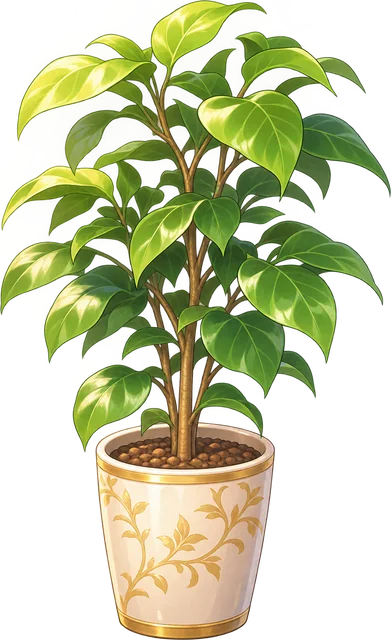
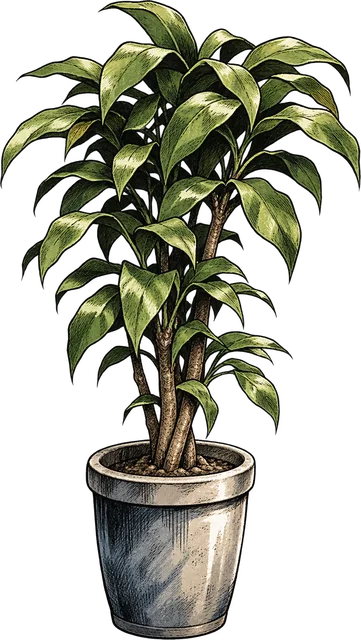
部屋4枚・観葉植物を劇画風にし、台を部品の絵で組み立てる (#25)
* 部屋4枚・観葉植物を劇画風にし、台を部品の絵で組み立てる

- 1K・分譲マンション・一戸建て・タワマンの背景と観葉植物を差し替え
- 台の地・飾り板・LED の柱・レバー・受け皿・ストップボタン・札をユーザーが作った絵に
- 絵の場所は起動時に CSS の変数へ入れる

Claude-Session: https://claude.ai/code/session_016fk9NuHm5XbXuuYNEzQTzr

* 台の部品のレビューの指摘を直す（絵が読めないときもボタンが見えるようにし、LED の継ぎ目と古い記述を直す）

Claude-Session: https://claude.ai/code/session_016fk9NuHm5XbXuuYNEzQTzr

---------

diff --git a/src/gekiga.css b/src/gekiga.css
@@ -174,18 +174,19 @@ body:has(.cab){
   /* 上の所持金・ゲージも黒い漆に金の縁 */
   .status{background:linear-gradient(180deg,#1d0a0c,#0e0506)!important;border:2px solid transparent!important;background-clip:padding-box!important;box-shadow:0 0 0 2px #b8862a,0 4px 10px rgba(0,0,0,.5)}
 
+  /* 台の部品はユーザーが作った絵（public/cabinet/）。URL は app.ts の setCabinetArt() が --c-* に入れる */
   .cab{position:relative;border:5px solid transparent;border-radius:22px;padding:14px 14px 16px;
-    background:var(--wave) 0 0/32px 16px,radial-gradient(120% 60% at 50% 0%,#c3191f,#7a0a10 60%,#3a0407) padding-box,var(--chrome) border-box;
+    background:linear-gradient(rgba(40,0,4,.45),rgba(20,0,2,.6)) padding-box,var(--c-wave,none) 0 0/96px 96px padding-box,radial-gradient(120% 60% at 50% 0%,#c3191f,#7a0a10 60%,#3a0407) padding-box,var(--chrome) border-box;
     box-shadow:0 0 0 2px #000,0 0 26px 4px rgba(255,40,80,.45)}
-  /* 両脇の LED の柱と、上の縁の LED（帯の色をずらすだけなので軽い） */
-  .cab::after{content:"";position:absolute;top:26px;bottom:110px;left:-10px;right:-10px;border-radius:4px;pointer-events:none;
-    background:var(--led) 0 0/6px 48px repeat-y,var(--led) 100% 0/6px 48px repeat-y;filter:drop-shadow(0 0 4px rgba(255,120,200,.9));animation:ledv 2.4s linear infinite}
+  /* 両脇の LED の柱（絵を縦につなげて流す） */
+  .cab::after{content:"";position:absolute;top:24px;bottom:24px;left:-15px;right:-15px;pointer-events:none;
+    background:var(--c-led,var(--led)) 0 0/14px auto repeat-y,var(--c-led,var(--led)) 100% 0/14px auto repeat-y;filter:drop-shadow(0 0 4px rgba(255,120,200,.8));animation:ledv 3s linear infinite}
   .cab::before{content:"";position:absolute;left:18px;right:18px;top:-5px;height:5px;border-radius:2px;background:linear-gradient(90deg,#ff2878,#3cc8ff,#ffd23c,#ff2878);background-size:200% 100%;box-shadow:0 0 8px rgba(255,120,200,.8);animation:led 3s linear infinite;pointer-events:none}
 
   /* 機種名：金の筆文字 */
-  .cabtop{justify-content:center;flex-direction:column;gap:0;text-align:center}
-  .cabtop b{font-family:var(--brush);font-size:30px;letter-spacing:.08em;background:linear-gradient(180deg,#fff6c0,#f2c45a 45%,#a8731a 75%,#ffe9a0);-webkit-background-clip:text;background-clip:text;color:transparent;filter:drop-shadow(0 2px 0 #3a0407) drop-shadow(0 0 6px rgba(255,200,80,.5))}
-  .cabtop .sub{color:#f3d7a8;font-size:11px}
+  .cabtop{justify-content:center;flex-direction:column;gap:0;text-align:center;aspect-ratio:900/284;margin:-6px -8px 0;padding:0 18%;background:var(--c-crest,none) center/100% 100% no-repeat}
+  .cabtop b{font-family:var(--brush);font-size:28px;line-height:1.1;letter-spacing:.08em;background:linear-gradient(180deg,#fff6c0,#f2c45a 45%,#a8731a 75%,#ffe9a0);-webkit-background-clip:text;background-clip:text;color:transparent;filter:drop-shadow(0 0 1px #000) drop-shadow(0 0 1px #000) drop-shadow(0 2px 0 #000) drop-shadow(0 0 8px rgba(255,200,80,.6))}
+  .cabtop .sub{color:#f3d7a8;font-size:10px;text-shadow:0 1px 2px #000}
 
   /* データカウンター：金の枠に黒い窓、光る数字 */
   .stats div,.counter div{border:2px solid transparent;border-radius:6px;background:linear-gradient(#050306,#050306) padding-box,var(--goldframe) border-box;box-shadow:inset 0 0 8px rgba(0,0,0,.9)}
@@ -206,25 +207,34 @@ body:has(.cab){
   .glass{border-radius:10px;padding:4px;background:var(--chrome);box-shadow:inset 0 0 0 2px #d4a032,0 0 0 2px #000,inset 0 8px 14px rgba(0,0,0,.35),0 0 18px rgba(255,190,90,.35)}
   .glass + .sub{color:#f3d7a8!important}
 
-  /* レバーとストップボタン：クロームの受け皿 */
-  .ctrl{padding:10px;border-radius:14px;background:linear-gradient(180deg,#eef1f4,#8b939c 35%,#3a4048 60%,#9aa3ad 85%,#5e6670);box-shadow:inset 0 2px 0 #fff,inset 0 -3px 6px rgba(0,0,0,.5),0 0 0 2px #000}
-  .lever{color:#fff;text-shadow:0 1px 2px #000;border:4px solid transparent;background:radial-gradient(circle at 38% 28%,#fff,#ff7a8e 22%,#e0102e 55%,#7a0616) padding-box,var(--chrome) border-box;box-shadow:0 5px 0 #000,0 0 12px rgba(255,60,80,.6)}
-  .stop{color:#fff1e0;text-shadow:0 1px 2px #000;border:4px solid transparent;border-radius:999px;background:radial-gradient(circle at 50% 30%,#fff 0%,#ff9a8a 16%,#ff2e2e 42%,#a0081a 78%,#5a0610) padding-box,var(--chrome) border-box;box-shadow:0 5px 0 #000,0 0 16px rgba(255,60,60,.6)}
-  .stop:disabled,.lever:disabled{filter:grayscale(.6) brightness(.55)}
+  /* レバーとストップボタン：レバーの絵と、受け皿の絵の3つの穴に置くボタンの絵 */
+  .ctrl{grid-template-columns:15% 1fr;gap:4px;align-items:center}
+  .lever{width:100%;aspect-ratio:300/685;border:0;border-radius:0;background:var(--c-lever,none) center/contain no-repeat,radial-gradient(circle at 50% 14%,#e0102e 0 18%,transparent 19%),linear-gradient(90deg,transparent 44%,#c9ced4 44% 56%,transparent 56%) center/100% 70% no-repeat;box-shadow:none;color:transparent;text-shadow:none;filter:drop-shadow(0 4px 3px rgba(0,0,0,.6))}
+  .stops{position:relative;display:block;aspect-ratio:900/254;background:var(--c-tray,none) center/100% 100% no-repeat}
+  /* 穴の中心は左から 26.0%・49.8%・73.6%、高さ 47%、直径は幅の 14.5%。押せる範囲は穴より広くとる */
+  .stop{position:absolute;top:0;bottom:0;width:22%;min-height:0;margin-left:-11%;border:0;border-radius:0;color:transparent;text-shadow:none;box-shadow:none;
+    background:var(--c-stop-on,none) center 47%/66% auto no-repeat,radial-gradient(circle at 50% 47%,#ff2e2e 0 26%,transparent 27%)}
+  .stop:nth-child(1){left:26%}.stop:nth-child(2){left:49.8%}.stop:nth-child(3){left:73.6%}
+  .stop:disabled{background-image:var(--c-stop-off,none),radial-gradient(circle at 50% 47%,#5a0610 0 26%,transparent 27%);filter:none}
+  .stops.warm .stop:not(:disabled){background-image:var(--c-stop-off,none),radial-gradient(circle at 50% 47%,#5a0610 0 26%,transparent 27%);filter:none}
+  .stop .nv{top:4%;color:#fff}
+  .lever:disabled{filter:grayscale(.6) brightness(.55) drop-shadow(0 4px 3px rgba(0,0,0,.6))}
+  .lever:active:not(:disabled),.stop:active:not(:disabled){transform:translateY(2px);box-shadow:none}
 
-  /* オートとやめる：金の札と赤い札 */
-  .grid3 .cmd{border:2.5px solid transparent!important;border-radius:8px;background:linear-gradient(180deg,#f8dd8a,#d9a432 50%,#a8731a) padding-box,linear-gradient(#3a2200,#3a2200) border-box!important;box-shadow:0 4px 0 #000,inset 0 2px 0 rgba(255,255,255,.6)}
-  .grid3 .cmd b{font-family:var(--brush);font-size:17px;color:#3a1a00;text-shadow:0 1px 0 rgba(255,255,255,.5)}
-  .grid3 .cmd span{color:#5a3606}
-  .grid3 .cmd[data-a=quit]{background:linear-gradient(180deg,#e2423a,#a3191b 55%,#5c0a0b) padding-box,linear-gradient(#2a0002,#2a0002) border-box!important}
+  /* オートとやめる：金の札と赤い札の絵 */
+  .grid3 .cmd{border:0!important;border-radius:0;padding:8px 13%;aspect-ratio:400/177;display:flex;flex-direction:column;align-items:center;justify-content:center;text-align:center;gap:0;background:var(--c-plate-gold,none) center/100% 100% no-repeat!important;box-shadow:none;filter:drop-shadow(0 4px 2px rgba(0,0,0,.6))}
+  .grid3 .cmd b{font-family:var(--brush);font-size:19px;line-height:1.15;color:#3a1a00;text-shadow:0 1px 0 rgba(255,255,255,.5)}
+  /* 札の中は狭いので説明は画面には出さず、読み上げだけに残す */
+  .grid3 .cmd span{position:absolute;width:1px;height:1px;overflow:hidden;clip:rect(0 0 0 0);white-space:nowrap}
+  .grid3 .cmd[data-a=quit]{background:var(--c-plate-red,none) center/100% 100% no-repeat!important}
   .grid3 .cmd[data-a=quit] b{color:#fff1e0;text-shadow:0 2px 0 #000}
   .grid3 .cmd[data-a=quit] span{color:#ffd9cf}
-  .grid3 .cmd.on{box-shadow:0 4px 0 #000,0 0 0 3px #fff3b0,0 0 14px rgba(255,220,120,.9)}
+  .grid3 .cmd.on{filter:drop-shadow(0 0 6px #fff3b0) drop-shadow(0 0 10px rgba(255,220,120,.9))}
   .grid3 .cmd:disabled{filter:grayscale(.5) brightness(.6)}
   /* 配当表などの開く欄：黒い漆に金の縁 */
   .strip{background:linear-gradient(180deg,#1d0a0c,#0e0506)!important;border:2px solid transparent!important;background-clip:padding-box!important;box-shadow:0 0 0 2px #b8862a}
   .strip summary{color:#f3d7a8}
 }
 @keyframes led{to{background-position:-200% 0}}
-@keyframes ledv{to{background-position:0 48px,100% 48px}}
+@keyframes ledv{to{background-position:0 108px,100% 108px}}
 @media (prefers-reduced-motion:reduce){body:has(.cab) .cab::before,body:has(.cab) .cab::after{animation:none}}

diff --git a/src/data/room.ts b/src/data/room.ts
@@ -1,4 +1,4 @@
-// 部屋（仕様書 7.2・9.8）。家ごとのアニメ調の背景と、家具ごとに決まった置き場所
+// 部屋（仕様書 7.2・9.8）。家ごとの劇画風の背景と、家具ごとに決まった置き場所
 /** 家ごとの部屋の背景（public/rooms/） */
 export const ROOM_IMAGES = ['room0.webp', 'room1.webp', 'room2.webp', 'room3.webp', 'room4.webp'];
 
@@ -35,7 +35,7 @@ export const PLAYER_ASPECT = 900 / 296;
  */
 export const FURNITURE_ASPECT: Record<string, number> = {
   futon: 435 / 640, bed: 640 / 582, lbed: 451 / 640, tv: 607 / 640, bigtv: 423 / 640, game: 439 / 640,
-  shelf: 640 / 359, plant: 640 / 391, fridge: 640 / 330, sofa: 287 / 640, tank: 640 / 545, mchair: 640 / 591,
+  shelf: 640 / 359, plant: 640 / 361, fridge: 640 / 330, sofa: 287 / 640, tank: 640 / 545, mchair: 640 / 591,
 };
 /** 置き場所の幅（SLOTS の w）と違う幅で置く家具（寝具は同じ置き場所でも絵の形が違うため） */
 export const FURNITURE_W: Record<string, number> = { futon: 27, bed: 24, lbed: 30 };

diff --git a/src/ui/app.ts b/src/ui/app.ts
@@ -14,7 +14,11 @@ import { ROOM_IMAGES, SLOT_OF, SLOTS, PLAYER_SPOT, PLAYER_IMAGE, PLAYER_ASPECT, 
 import { AUTO_GAMES, HIST_MAX, LCD_MS, LCD_BUSY_MS, LCD_SMALL_MS, LCD_GOLD } from '../data/ui';
 import { setTabbar, pagesHTML, bindPages, openSheet } from './widgets';
 
+// 台の部品の絵（public/cabinet/）の場所を CSS の --c-* に入れる（base のパスを付けるため JS で渡す）
+const CABINET_ART=['wave','led','crest','lever','tray','stop-on','stop-off','plate-gold','plate-red'];
+function setCabinetArt(){for(const n of CABINET_ART)document.documentElement.style.setProperty('--c-'+n,`url(${import.meta.env.BASE_URL}cabinet/${n}.webp)`)}
 export function startApp(){
+setCabinetArt();
 
 
 function rr(c,x,y,w,h,r){c.beginPath();c.moveTo(x+r,y);c.arcTo(x+w,y,x+w,y+h,r);c.arcTo(x+w,y+h,x,y+h,r);c.arcTo(x,y+h,x,y,r);c.arcTo(x,y,x+w,y,r);c.closePath()}

diff --git a/docs/game-spec.md b/docs/game-spec.md
@@ -290,10 +290,10 @@
 
 ### 9.5 見た目
 - **打っている画面以外は劇画風**（借金と勝負の青年漫画のような、紙と墨の見た目）。暗い茶色の背景に、パネル・ボタン・タブは生成りの紙に墨の太い縁取りと黒いずらし影。大事なボタンは赤（パチ屋へ行くは集中線のある赤い札、購入するなどは赤い判子）。見出しは墨の帯、ロゴ・見出し・大きいボタンは筆文字、所持金や値段は太い明朝の数字。ゲージはお腹＝赤・娯楽＝黄・体調＝緑のバーに、数値（％）も並べる。天井が近い台は金色に光り、選んだ台・達成した実績・負けた収支は赤で分かるようにする。ユーザーが見せた参考画像に合わせた。
-- **打っている画面は実機のスロット台風**（ユーザーが作った参考画像に合わせた）：赤い漆に金の波模様の筐体とクロームの枠、両脇と上の縁を流れる LED、機種名は金の筆文字。データカウンターは金の枠の黒い窓に光る数字（総ゲーム数は緑・BIG は赤・REG は青・合成確率は黄）。液晶とリールはクロームの額縁、レバーとストップボタンはクロームの受け皿に赤い丸いボタン。オートは金の札、やめるは赤い札。上の所持金・ゲージと配当表の欄は黒い漆に金の縁。液晶には機種のバナーの絵を出す（主人公は出さない）。メダルの受け皿は描かない。
+- **打っている画面は実機のスロット台風**（ユーザーが作った参考画像と部品の絵に合わせた）：台の地（赤い漆に金の青海波）・上の飾り板（機種名を重ねる）・両脇を流れる LED の柱・レバー・ストップボタンの受け皿・ストップボタン（押せるときは点灯、押せないときと回り始めの加速中は消灯）・オートの金の札・やめるの赤い札は、ユーザーが作った絵（`public/cabinet/`）。リール・液晶・データカウンターの数字は今までどおりプログラムで描く（目押しの判定と数字の更新のため）。札の中の説明文は狭いので画面には出さず、読み上げだけに残す。上の所持金・ゲージと配当表の欄は黒い漆に金の縁。液晶には機種のバナーの絵を出す（主人公は出さない）。メダルの受け皿は描かない。
 - 劇画風は `src/gekiga.css`、打っている画面の台の見た目は同じファイルの最後の「台」の節（もとの金の装飾は `src/style.css`）。打っている画面かどうかは、画面に台（`.cab`）があるかで切り替える。
 - ロゴはユーザーが作った筆文字の画像（`public/ui/logo.webp`）。
-- 部屋の背景・家具・主人公の絵も劇画風に作り直す（プロンプトは `docs/art-prompts.md`）。届いたものから差し替え、届くまでは今のアニメ調の絵を使う（ボロアパートの背景は劇画風になった）。
+- 部屋の背景・家具・主人公の絵も劇画風に作り直す（プロンプトは `docs/art-prompts.md`）。届いたものから差し替え、すべて劇画風の絵になった。
 
 ### 9.6 台の液晶
 - 打つ画面のリールの上に、台のバナーの絵（`public/banners/`）を背景にした液晶を置く。
@@ -309,11 +309,11 @@
 
 ---
 
-### 9.8 部屋（アニメ調）
-- 家ごとに部屋の背景（昼）を出す（`public/rooms/room0〜4.webp`）。ボロアパートは劇画風、ほかの家は劇画風の絵が届くまでアニメ調。
+### 9.8 部屋
+- 家ごとに部屋の背景（昼）を出す（`public/rooms/room0〜4.webp`）。5枚とも劇画風。
 - 家具は種類ごとに置き場所が決まっている（本棚・冷蔵庫・小型テレビ・大型テレビ・水槽・観葉植物・ゲーム機・ソファ・寝具・マッサージチェア）。寝具（せんべい布団・ベッド・高級ベッド）だけは置き場所が1つで、新しく置くと前のものは持ち物に戻る（効果も一番良いものだけなので）。持ち物のボタンの読み上げにも「〜と入れ替え」と出す。テレビは2台とも置けて、効果も足し合わせる（7.2 のまま）。
 - 持ち物の家具を押すと置き、部屋の家具を押すと片付ける。奥のものから順に描き、手前の家具が前に出る。家具の絵の透けたところは押しても反応せず、その奥に見えている家具が片付く。
-- 家具は劇画風の絵（観葉植物だけはまだアニメ調、`public/furniture/<id>.webp`、背景は透過）。置き場所に合わせた向きで描き（左は右の側面、右は左の側面が見える。ソファは後ろ姿）、足元に床の影を付ける。持ち物の一覧にも同じ絵を小さく出す。主人公も劇画タッチの立ち絵（`public/rooms/hero.webp`）で、家具と一緒に奥から順に並べる（手前のソファやベッドの後ろに立つ）。置き場所と大きさの数値は `src/data/room.ts`。
+- 家具は劇画風の絵（`public/furniture/<id>.webp`、背景は透過）。置き場所に合わせた向きで描き（左は右の側面、右は左の側面が見える。ソファは後ろ姿）、足元に床の影を付ける。持ち物の一覧にも同じ絵を小さく出す。主人公も劇画タッチの立ち絵（`public/rooms/hero.webp`）で、家具と一緒に奥から順に並べる（手前のソファやベッドの後ろに立つ）。置き場所と大きさの数値は `src/data/room.ts`。
 
 ## 10. 今後の候補
 1. 台の種類を増やす（中段チェリー等のレア役、1枚役、チャンス目、リーチ目の種類）。

diff --git a/docs/decisions.md b/docs/decisions.md
@@ -152,3 +152,10 @@
 - ユーザーが作った実機風の参考画像に合わせ、打つ画面を赤い漆と金の波模様の筐体、クロームの枠、LED の柱にした。
 - ユーザーの指示どおり、メダルの受け皿と主人公は出さない。液晶はその機種のバナーの絵のまま。
 - 参考画像にない「時刻・現在・持ちメダル・収支」の行と、上の所持金・ゲージは、遊ぶのに必要なので残し、同じ金の枠の見た目にそろえた。
+
+## 2026-11-15 部屋4枚・観葉植物・台の部品を絵にする
+
+- 1K・分譲マンション・一戸建て・タワマンの背景と観葉植物を劇画風の絵に差し替え、部屋と家具はすべて劇画風になった。
+- 台は1枚の絵にせず、部品ごとに絵を作って組み合わせた（ユーザーの提案）。リール・液晶・カウンターは目押しの判定や数字の更新があるのでプログラムで描き、その周りの枠・ボタンを絵にした。画面の長さが変わっても切れないよう、台の地と LED の柱は繰り返して並べる。
+- 絵の場所は base のパスを付ける必要があるので、CSS に直接書かず、起動時に JS から CSS の変数（--c-*）に入れる。
+- ストップボタンは押せる範囲を受け皿の穴より広くとり、押しやすさを保った。判定は押した瞬間の時刻で、見た目の変更は影響しない。

diff --git a/README.md b/README.md
@@ -15,7 +15,7 @@
 - `src/ui/widgets.ts` … 画面の部品（下のタブバー、上のタブと横スワイプのページ、購入の確認画面）
 - `src/ui/symbols.ts` … リールの図柄の画像とボーナス図柄の光（画像は `public/symbols/`、作ったときのプロンプトは `docs/art-prompts.md`）
 - `src/version.ts` … 版の表示（ビルドの印）と、公開されている最新の版の確かめ方
-- `public/` … 図柄の画像（`symbols/`）、アプリのアイコン（`icons/`・`apple-touch-icon.png`）、`manifest.webmanifest`、家ごとの部屋の背景と主人公（`rooms/`）、家具（`furniture/`）、ロゴ（`ui/`）
+- `public/` … 図柄の画像（`symbols/`）、アプリのアイコン（`icons/`・`apple-touch-icon.png`）、`manifest.webmanifest`、家ごとの部屋の背景と主人公（`rooms/`）、家具（`furniture/`）、ロゴ（`ui/`）、台の部品（`cabinet/`）
 - `tests/` … Vitest の単体テスト（停止制御の約束、抽選、生活）
 - `prototype/narikin.html` … 試作品の単一ファイル（参考用）
 
